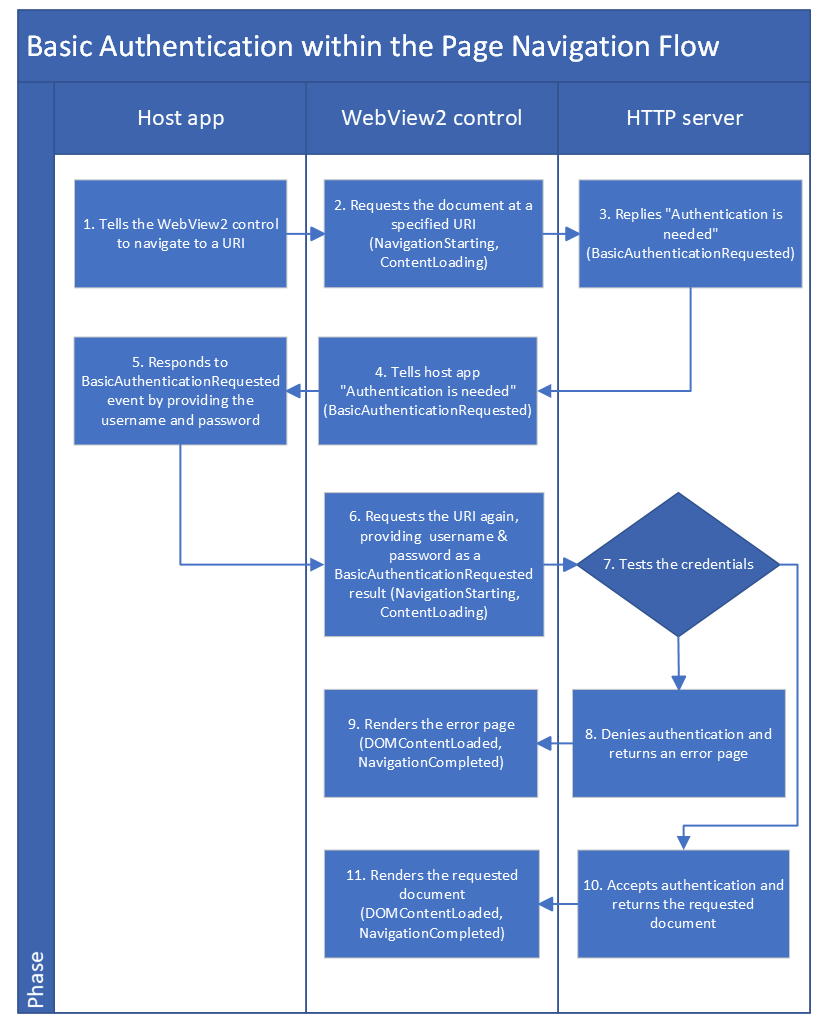
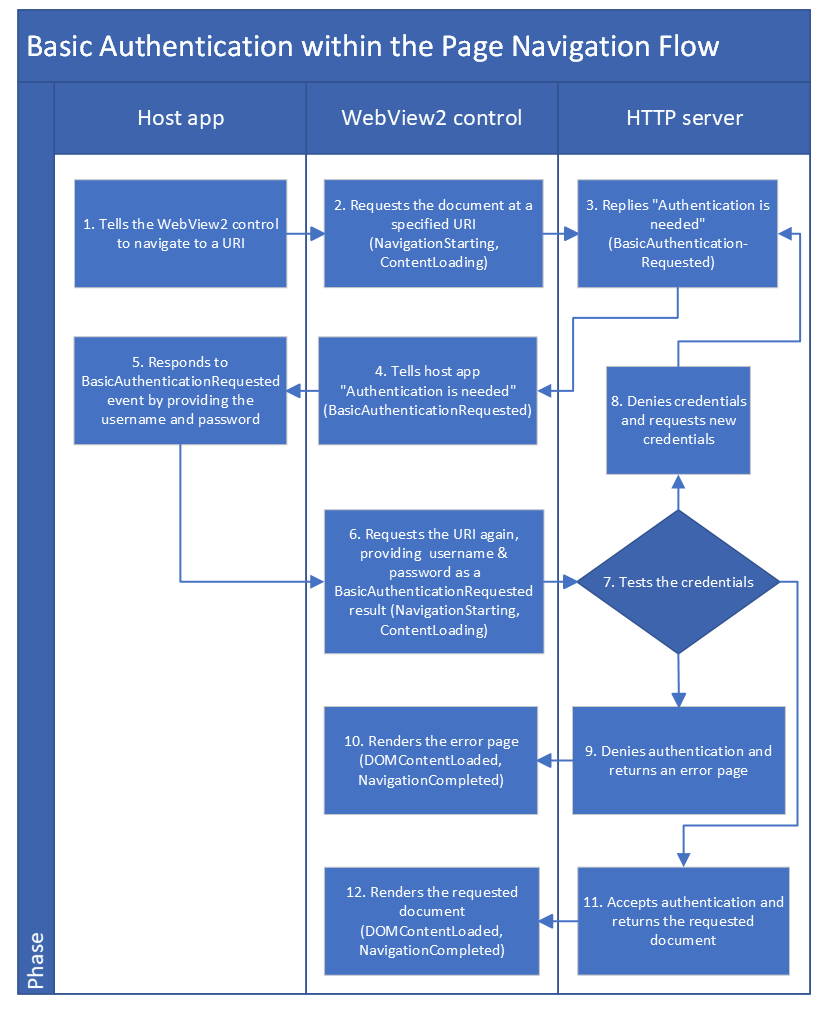
Added 3rd decision path and addl step

diff --git a/microsoft-edge/webview2/concepts/basic-authentication.md b/microsoft-edge/webview2/concepts/basic-authentication.md
@@ -81,17 +81,20 @@ later, check:  Teams > Team > channel > Files > dir > filename -->
 1. The HTTP server evaluates the credentials (username and password).
    <!-- "7. Tests the credentials" -->
 
+1. The HTTP server might deny the credentials and request new credentials.
+   <!-- "8. Denies credentials and requests new credentials" -->
+
 1. The HTTP server might reject the username and password; it might tell the WebView2 control "You're not permitted to get that URI/document".
-   <!-- "8. Denies authentication and returns an error page" -->
+   <!-- "9. Denies authentication and returns an error page" -->
 
 1. The WebView2 control renders the error page that's returned by the HTTP server.  The rendering occurs between the `ContentLoading` event and `DOMContentLoaded` event.
-   <!-- "9. Renders the error page (DOMContentLoaded, NavigationCompleted)" -->
+   <!-- "10. Renders the error page (DOMContentLoaded, NavigationCompleted)" -->
    
 1. The HTTP server might accept the authentication credentials and return the requested document.
-   <!-- "10. Accepts authentication and returns the requested document" -->
+   <!-- "11. Accepts authentication and returns the requested document" -->
 
 1. The WebView2 control renders the returned document.  The rendering occurs between the `ContentLoading` event and `DOMContentLoaded` event.
-   <!-- "11. Renders the requested document (DOMContentLoaded, NavigationCompleted)" -->
+   <!-- "12. Renders the requested document (DOMContentLoaded, NavigationCompleted)" -->
 
 
 <!-- ====================================================================== -->
